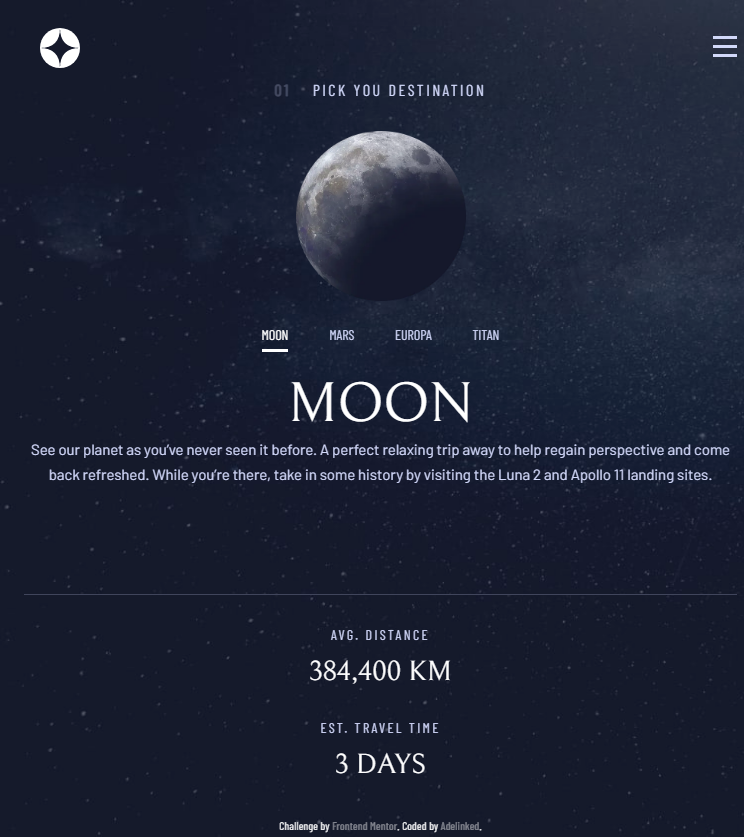
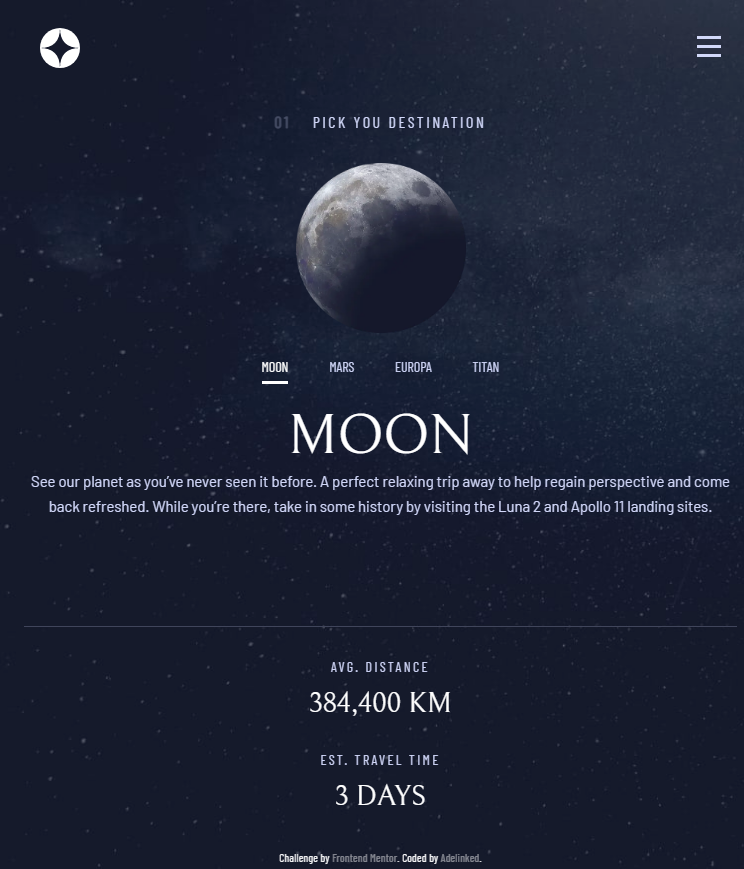
fix navbar padding

diff --git a/components/NavBar/NavBar.tsx b/components/NavBar/NavBar.tsx
@@ -13,16 +13,16 @@ const NavBar = () => {
   const links = ["home", "destination", "crew", "technology"];
 
   return (
-    <nav className="relative px-10 lg:px-14 z-20 ">
+    <nav className="relative z-20">
       <div
-        className="fixed flex items-center justify-between w-full h-[6rem] lg:mt-10 "
+        className="fixed flex px-10 md:px-0 md:pl-10 lg:pl-14 lg:mt-10 items-center justify-between w-full h-[6rem]"
         ref={navbarRef}
       >
         <div className="relative w-10 h-10 md:w-12 md:h-12 ">
           <Image src="/assets/shared/logo.svg" alt="Space Logo" layout="fill" />
         </div>
         <div
-          className="md:hidden hover:cursor-pointer mr-16 w-6 h-6"
+          className="md:hidden hover:cursor-pointer mr-0 w-6 h-6"
           onClick={() => setShowVerticalNavBar(true)}
         >
           {showVerticalNavBar ? null : <Hamburger />}

diff --git a/components/NavBar/VerticalNavBar.tsx b/components/NavBar/VerticalNavBar.tsx
@@ -23,7 +23,7 @@ const VerticalNavBar = ({
 
   return (
     <div
-      className="fixed top-0 left-[100%] verticalNavBar z-20 w-[67.73%] h-full    overflow-y-auto  "
+      className="fixed top-0 left-[100%] verticalNavBar z-20 w-[67.73%] h-full  overflow-y-auto  "
       ref={verticalNavRef}
     >
       <div
@@ -32,7 +32,7 @@ const VerticalNavBar = ({
       >
         <Close />
       </div>
-      <div className="flex flex-col justify-start items-start mt-16 w-full  md:leading-[1.0625rem] lg:leading-[1.1875rem] md:tracking-[0.1475rem] lg:tracking-[0.16875rem] px-12 lg:px-32 ">
+      <div className="flex flex-col justify-start items-start mt-16 w-full md:leading-[1.0625rem] lg:leading-[1.1875rem] md:tracking-[0.1475rem] lg:tracking-[0.16875rem] px-12 lg:px-32 ">
         <a href="/">
           <span>00</span>HOME
         </a>

diff --git a/pages/destination.tsx b/pages/destination.tsx
@@ -23,7 +23,7 @@ const Home: NextPage = () => {
         />
       </Head>
       <NavBar />
-      <main className="flex w-full flex-col justify-between text-center pt-20 md:pt-36 lg:pt-52 px-6 md:px-10 xl:px-40 pb-14 md:pb-16 lg:pb-32 lg:text-left">
+      <main className="flex w-full flex-col justify-between text-center pt-28 md:pt-36 lg:pt-52 px-6 md:px-10 xl:px-40 pb-14 md:pb-16 lg:pb-32 lg:text-left">
         <p className="text-lightBlue mb-8 md:mb-16 md:text-left font-subHeading2  md:text-[1.25rem] lg:text-[1.75rem] leading-[1.2rem] md:leading-[1.5rem] lg:leading-[2.1rem] tracking-[0.16rem] md:tracking-[0.21rem] lg:tracking-[0.295rem] ">
           <span className="opacity-25 number font-bold	mr-4 lg:mr-6">01</span>{" "}
           PICK YOU DESTINATION

diff --git a/README.md b/README.md
@@ -25,7 +25,7 @@ Users should be able to:
 
 ### Screenshot
 
-![](https://i.postimg.cc/L5kbJf3R/screen-Shot.png)
+![](https://i.postimg.cc/0Nz2NZD1/screen-Shot.png)
 
 ### Links
 
